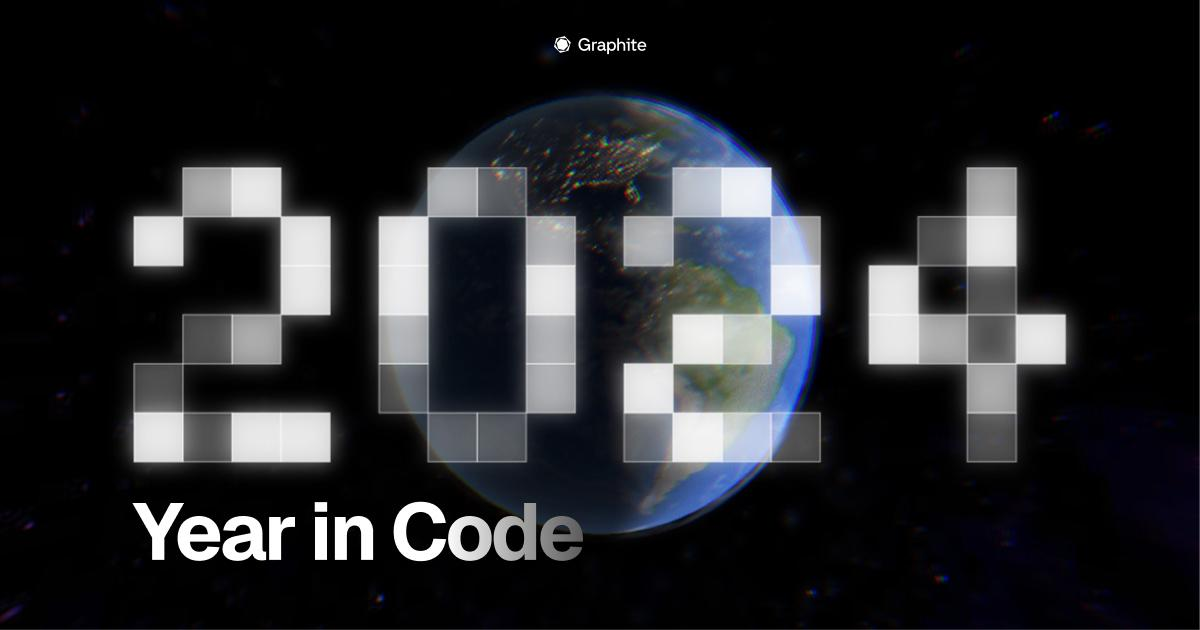
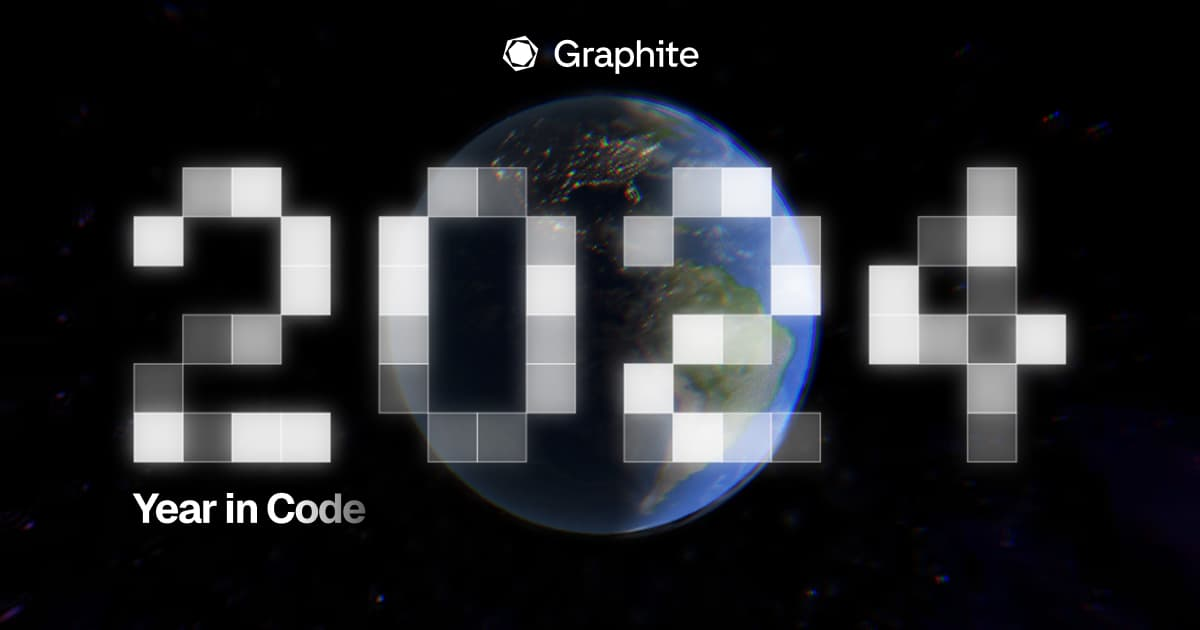
fix(og images): fix dynamic og route

Changed region(s): [[0.0925, 0.7841, 0.4933, 0.9048], [0.0, 0.9952, 1.0, 1.0], [0.4008, 0.0603, 0.5858, 0.1206]]

diff --git a/app/og/route.tsx b/app/og/route.tsx
@@ -2,15 +2,15 @@ import {ImageResponse} from 'next/og'
 import {NextRequest} from 'next/server'
 import {META} from '~/constants/metadata'
 
+
 export const runtime = 'edge'
+
 
 export async function GET(req: NextRequest) {
 	const {searchParams} = req.nextUrl
 	const postTitle = searchParams.get('title')
-	const font = fetch(
-		new URL('../../public/fonts/GeistMono-Regular.otf', import.meta.url)
-	).then(res => res.arrayBuffer())
-	const fontData = await font
+	
+
 	const size = {
 		width: 1200,
 		height: 630
@@ -22,39 +22,35 @@ export async function GET(req: NextRequest) {
 				style={{
 					height: '100%',
 					width: '100%',
+					backgroundSize: 'cover',
 					display: 'flex',
-					flexDirection: 'column',
-					alignItems: 'center',
-					justifyContent: 'center',
+			
 					position: 'relative',
-					overflowY: 'hidden',
+					overflow: 'hidden',
 					color: '#FFFFFF',
 					backgroundImage: `url(${META.domain.prod}images/og-bg-text.jpg)`
 				}}>
-					<div
+				
+				<div
 					style={{
-						fontFamily: 'Geist Mono',
-						display: 'flex',
-						fontSize: 80,
+						
 						position: 'absolute',
-						right: 133,
-						bottom: 70,
+						bottom: 24,
+						transform: 'translateX(-50%)',
+						left: '50%',
+						display: 'flex',
+						fontWeight: 'bold',
+						fontSize: 24,
+						fontFamily: 'monospace',
 						color: '#FFFFFF',
 						whiteSpace: 'nowrap'
 					}}>
-					{postTitle}
+					 {postTitle}
 				</div>
 			</div>
 		),
 		{
 			...size,
-			fonts: [
-				{
-					name: 'Geist Mono',
-					data: fontData,
-					style: 'normal'
-				}
-			]
 		}
 	)
 }

diff --git a/app/page.tsx b/app/page.tsx
@@ -16,7 +16,9 @@ export default async function Page() {
 	const {
 		data: {session}
 	} = await supabase.auth.getSession()
+
 	if (session) redirect(`/loading`)
+
 	return (
 		<div className='flex h-screen w-full flex-col items-center justify-center gap-10 p-5'>
 			 <Hero />
